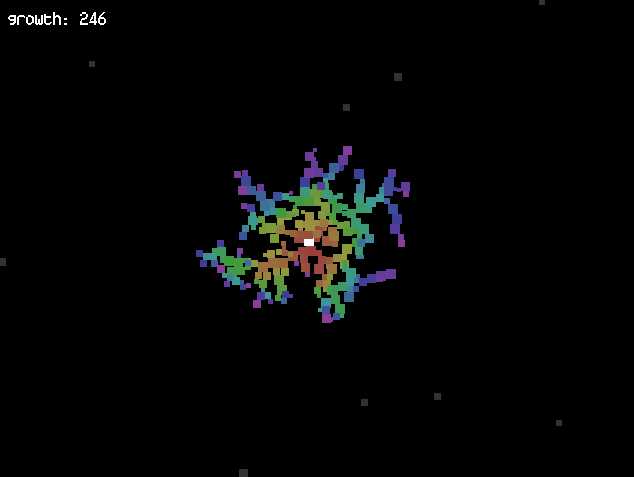
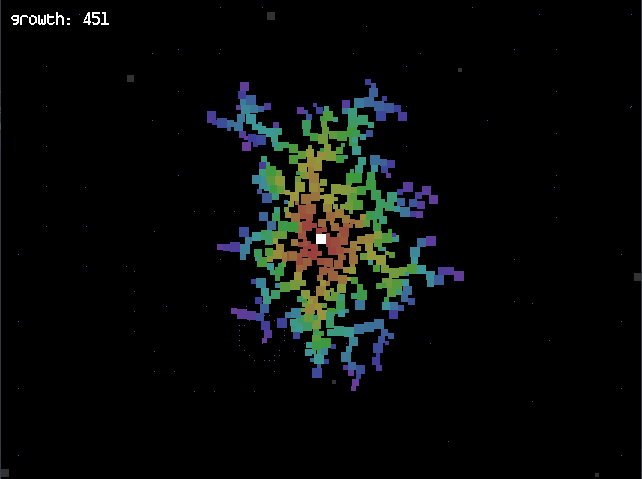
Particle effects added

diff --git a/growth.py b/growth.py
@@ -18,7 +18,7 @@ SATURATED = False  # 'game over'
 SPAWNRATE = 150  # ms between particles spawning
 LOOPNUM = 600  # number of particles to collide until colours loop round
 MESSAGECHANCE = 600  # growth number to reach for 100% chance of a nice message
-NUMPOOF = 30  # number of stars when colliding
+NUMPOOF = 50  # number of stars when colliding
 
 main = True
 
@@ -273,6 +273,7 @@ class Poof(Particle):
 def regrow():
     Growth.empty()
     Others.empty()
+    Poofs.empty()
 
     you.rect.x = width // 2
     you.rect.y = height // 2

diff --git a/gamenotes.md b/gamenotes.md
@@ -43,6 +43,8 @@ Rules to live by:
 - some way to avoid you being able to just sit still and let it run? bits fall off if you stop moving?
 - able to change screen size in-game by just dragging window?
 - particles get faster/more spawned per second as the game goes on?
+- MENU with settings you can change
+- Onscreen timer
 
 
 ### maybe?:
